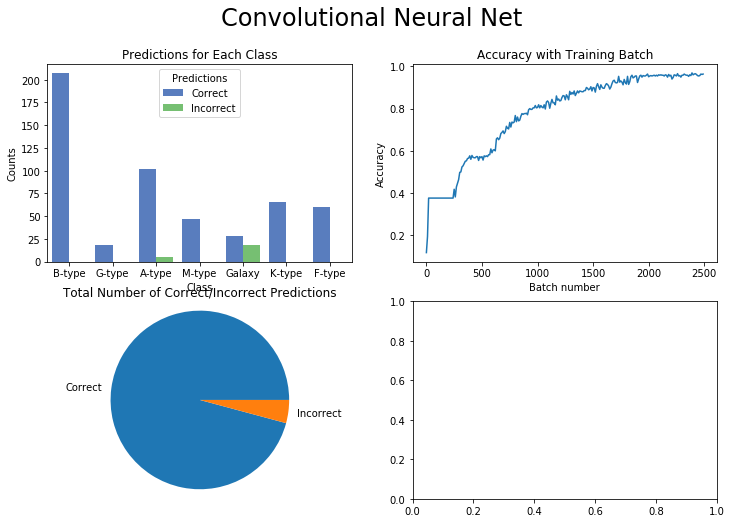
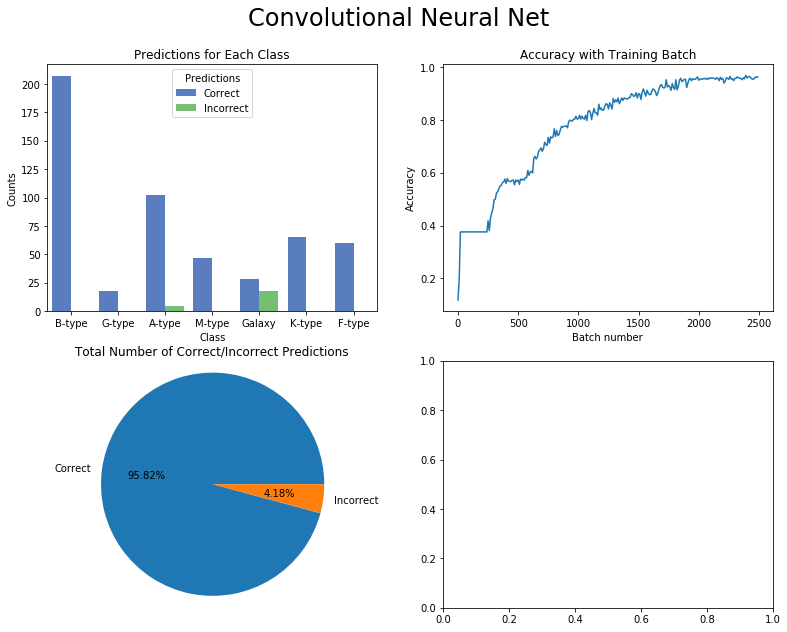
Plot for meeting

diff --git a/Chris/Learning_TensorFlow/test_neural_net.py b/Chris/Learning_TensorFlow/test_neural_net.py
@@ -19,7 +19,10 @@ class Neural_Net():
             with fits.open(file) as hdulist:
                 self.flux.append((hdulist[0].data)[0])
                 self.scls.append(hdulist[0].header['CLASS'])
+        self.flux = np.array(self.flux)
+        self.scls = np.array(self.scls)
         self.cls = self.onehot(self.scls)
+        print("LAMOST data successfully read in...")
         
     def create_artificial_data(self,nStars,nGalaxies,plot=True):
         ''' Creates a set of artificial stars (modelled as blackbodies) and galaxies (modelled as straight lines) '''
@@ -53,6 +56,7 @@ class Neural_Net():
         self.flux = np.concatenate((fStar,fGalaxy))
         self.scls = np.concatenate((cStar,cGalaxy))
         self.cls = self.onehot(self.scls)
+        print("Artificial data created...")
         
     def predict_class(self):
         ''' Sets up a neural net with one layer using a simple linear estimator '''

diff --git a/Chris/Learning_TensorFlow/plot_NN_results.py b/Chris/Learning_TensorFlow/plot_NN_results.py
@@ -24,8 +24,8 @@ for idx in range(len(preds)):
 d = {'Labels':labs,'Predictions':true_false}
 df = pd.DataFrame(data=d)
 
-fig, ax = plt.subplots(2,2,figsize=(12,8))
-fig.suptitle("Convolutional Neural Net",y=0.98,fontsize=24)
+fig, ax = plt.subplots(2,2,figsize=(13,10))
+fig.suptitle("Convolutional Neural Net",y=0.96,fontsize=24)
 
 sns.factorplot(x='Labels', hue='Predictions', data=df, size=6, kind='count', palette='muted', ax=ax[0][0])
 ax[0][0].set_xlabel("Class")
@@ -38,7 +38,7 @@ ax[0][1].set_ylabel("Accuracy")
 ax[0][1].set_title("Accuracy with Training Batch")
 #plt.savefig("AccPlotnoNoise")
 
-ax[1][0].pie([true,false],labels=["Correct","Incorrect"])
+ax[1][0].pie([true,false],labels=["Correct","Incorrect"], autopct="%1.2f%%")
 ax[1][0].axis("equal")
 ax[1][0].set_title("Total Number of Correct/Incorrect Predictions")
 
